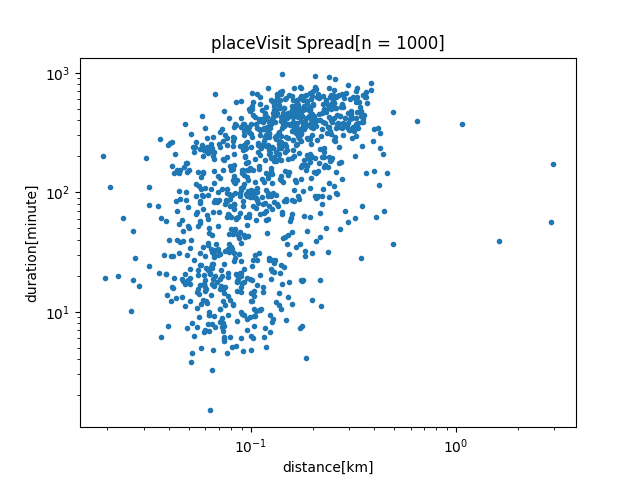
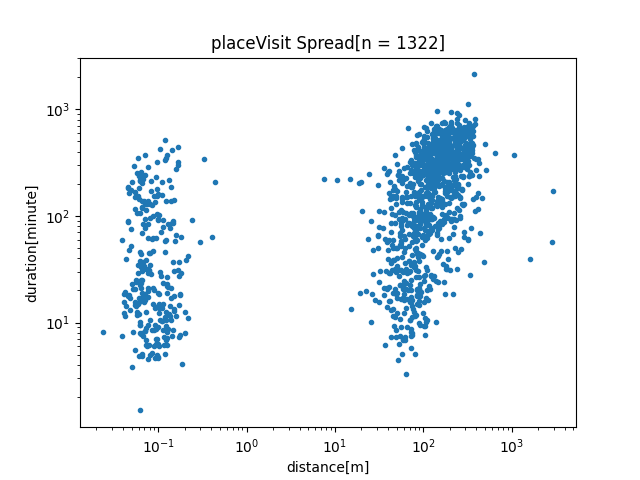
change distance [m]

diff --git a/figGLH/dataTrend.py b/figGLH/dataTrend.py
@@ -19,7 +19,7 @@ class GLHPoints():
     def docDistance(self, doc1, doc2):
         coord1 = [doc1["latE7"], doc1["lngE7"]]
         coord2 = [doc2["latE7"], doc2["lngE7"]]
-        return g2dist(coord1, coord2)
+        return g2dist(coord1, coord2) * 1000
     def docDuration(self, doc1, doc2):
         duration = abs(doc2["timestampMs"] - doc1["timestampMs"] )
         return msToMinite(duration)
@@ -109,7 +109,7 @@ def createFigures(distlists,timelists):
     logScatterFigure(distlists[1], timelists[1], "PlaceVisit")
     logScatterFigure(distlists[0] + distlists[1], timelists[0] + timelists[1], "FullSegment")
 
-def scatterFigure(distlist, timelist, name, xlabel = "distance[km]", ylabel = "duration[minute]"):
+def scatterFigure(distlist, timelist, name, xlabel = "distance[m]", ylabel = "duration[minute]"):
     savepath = "./images/"
     n = "[n = " + str(len(distlist)) + "]"
     fig = plt.figure()
@@ -118,7 +118,7 @@ def scatterFigure(distlist, timelist, name, xlabel = "distance[km]", ylabel = "d
     fig.savefig(savepath + name + ".png")
     print("Output: " + name + ".png")
 
-def logScatterFigure(distlist, timelist, name, xlabel = "distance[km]", ylabel = "duration[minute]"):
+def logScatterFigure(distlist, timelist, name, xlabel = "distance[m]", ylabel = "duration[minute]"):
     savepath = "./images/"
     n = "[n = " + str(len(distlist)) + "]"
     fig = plt.figure()
@@ -145,7 +145,7 @@ def fullFigure(distlists,timelists):
 if __name__ == '__main__' :
 
     segments = ["activitySegment", "placeVisit"]
-    limits= [800, 100]
+    limits= [0, 0]
     elements = ["dist", "duration"]
 
     MongoDBSet().stat()

diff --git a/figGLH/mongodbSet.py b/figGLH/mongodbSet.py
@@ -8,7 +8,7 @@ class MongoDBSet :
             self.glh_db = client.glh_db
             self.glh_clct = self.glh_db.glh_clct_full
 
-    def queryMongodb(self, query, limit = 1000):
+    def queryMongodb(self, query, limit = 0):
         corsor = self.glh_clct.find(query).limit(limit)
         return corsor
     

diff --git a/figGLH/caliper.py b/figGLH/caliper.py
@@ -25,7 +25,7 @@ def convex_hull(ps):
 
 def dist(a, b):
     # return sqrt((a[0]-b[0])**2 + (a[1]-b[1])**2)
-    return g2distance(a,b) # kmで計算
+    return g2distance(a,b) * 1000 # mで計算
 # キャリパー法
 def rotating_calipers(ps):
     ps.sort()
